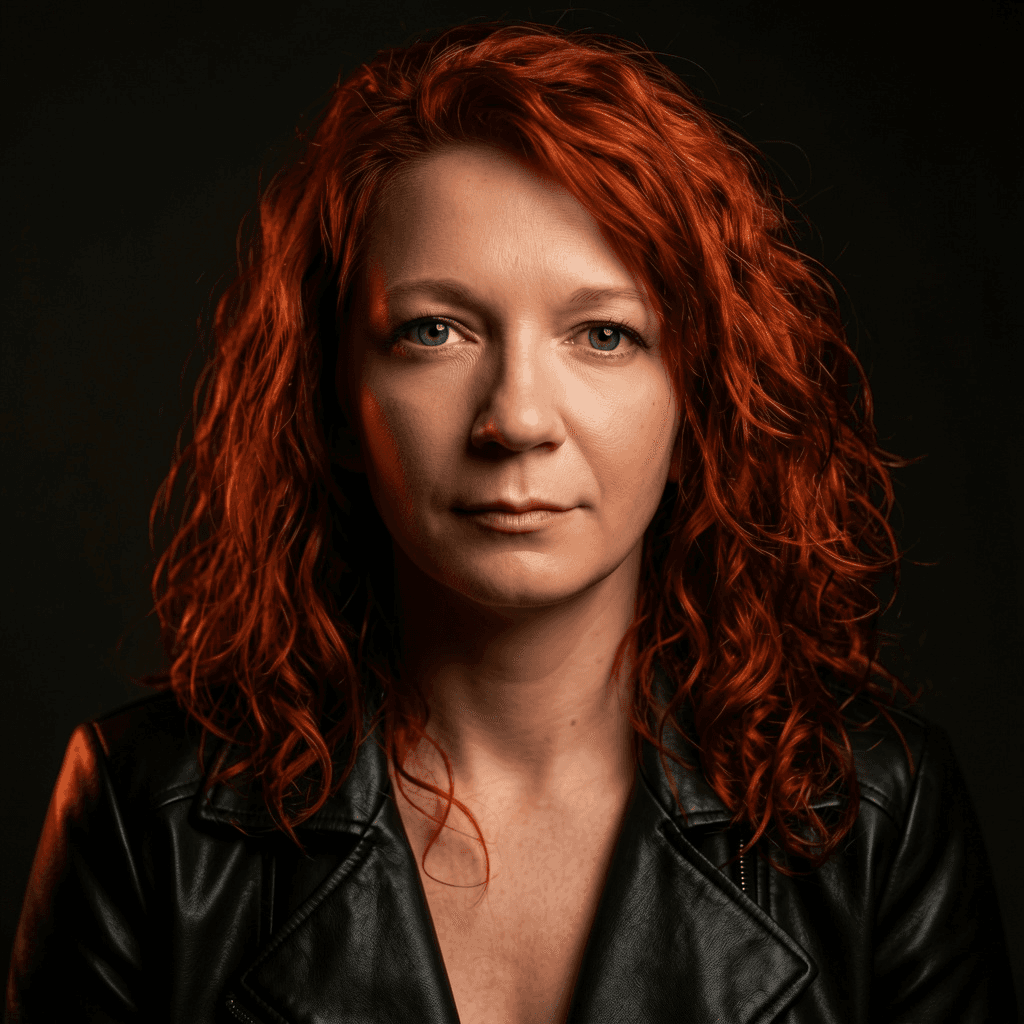
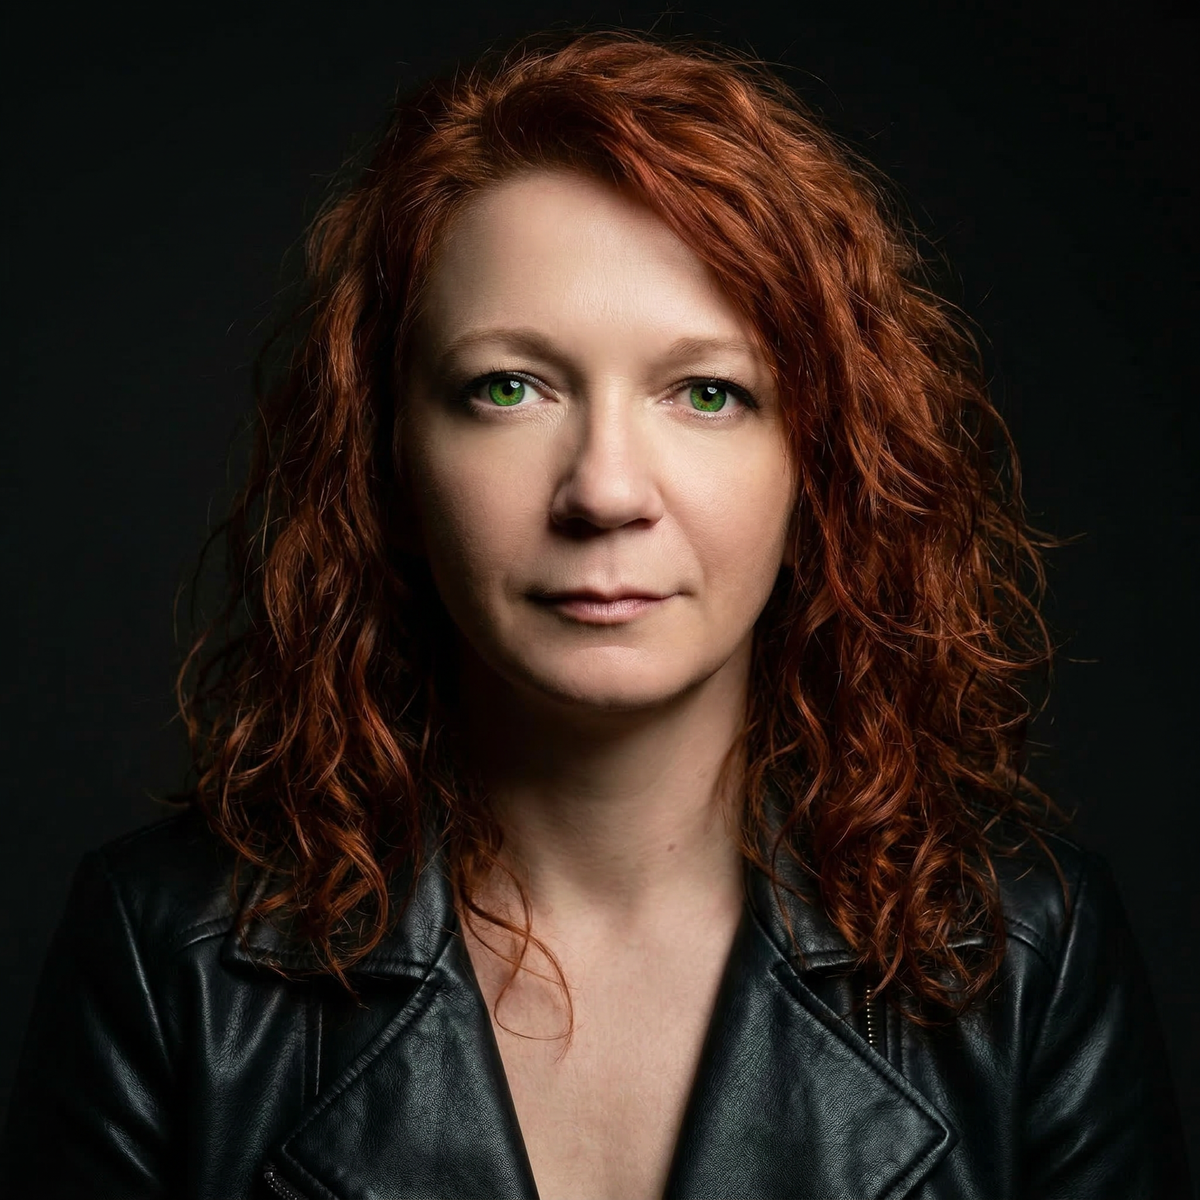
Replace profile portrait and remove red line decorations

diff --git a/public/styles.css b/public/styles.css
@@ -37,16 +37,12 @@ h1 span { color: var(--accent); }
 .button { width: fit-content; margin-top: 26px; padding: 14px 20px; border: 0; border-radius: 999px; display: inline-flex; gap: 26px; align-items: center; background: var(--ink); color: white; font: inherit; font-weight: 750; text-decoration: none; cursor: pointer; transition: transform .2s ease, background .2s ease; }
 .button:hover { transform: translateY(-2px); background: var(--accent); }
 .hero-image { grid-column: 1; grid-row: 1; margin: 0; position: relative; }
-.hero-image::before { content: ""; position: absolute; inset: -14px 14px 14px -14px; border: 1px solid var(--accent); border-radius: var(--radius); z-index: -1; }
-.hero-image::after { content: ""; position: absolute; width: 120px; height: 46px; right: -42px; bottom: 34px; border-bottom: 4px solid var(--accent); border-radius: 50%; transform: rotate(-12deg); pointer-events: none; }
 .hero-image img { width: 100%; aspect-ratio: 4 / 5; object-fit: cover; border-radius: var(--radius); box-shadow: var(--shadow); }
 .quote-band { padding: 28px 24px; background: var(--ink); color: white; overflow: hidden; }
 .quote-band p { width: max-content; max-width: 100%; margin: 0 auto; text-align: center; font-size: clamp(1.4rem, 3vw, 2.4rem); letter-spacing: -.03em; }
 .about, .work { padding-block: 130px; }
 .section-heading { display: grid; grid-template-columns: .35fr 1fr; gap: 30px; margin-bottom: 70px; }
 .section-heading h2, .contact h2 { font-size: clamp(3rem, 6vw, 6.4rem); font-weight: 500; }
-.section-heading h2 { position: relative; }
-.section-heading h2::after { content: ""; display: block; width: min(230px, 42%); height: 18px; margin-top: 22px; border-top: 3px solid var(--accent); border-radius: 50%; transform: rotate(-2deg); }
 .about-grid { display: grid; grid-template-columns: .85fr 1.15fr; gap: 70px; align-items: stretch; }
 .about-portrait { height: 100%; display: flex; }
 .about-portrait img { width: 100%; height: 100%; object-fit: cover; object-position: center top; border-radius: var(--radius); }
@@ -56,8 +52,8 @@ h1 span { color: var(--accent); }
 .about-copy h3 { font-size: 1.35rem; letter-spacing: -.03em; }
 .about-copy p { margin: 0; color: var(--muted); }
 .work { border-top: 1px solid var(--line); }
-.work-category { padding-top: 38px; border-top: 3px solid var(--ink); }
-.work-category + .work-category { margin-top: 110px; border-top-color: var(--accent); }
+.work-category { padding-top: 38px; border-top: 1px solid var(--line); }
+.work-category + .work-category { margin-top: 110px; }
 .category-heading { margin-bottom: 34px; display: grid; grid-template-columns: 60px minmax(260px, .8fr) 1fr; gap: 26px; align-items: end; }
 .category-heading > span { color: var(--accent); font-size: .82rem; font-weight: 900; letter-spacing: .12em; }
 .category-heading div p { margin: 0 0 7px; color: var(--muted); font-size: .72rem; font-weight: 800; letter-spacing: .12em; text-transform: uppercase; }
@@ -77,7 +73,6 @@ h1 span { color: var(--accent); }
 .project-card:hover p, .project-card:hover strong, .project-card:focus-visible p, .project-card:focus-visible strong { opacity: 1; }
 .project-wide { grid-column: span 2; min-height: 650px; }
 .contact { padding-block: 120px; background: #f1f1ef; color: var(--ink); position: relative; overflow: hidden; border-top: 1px solid var(--line); }
-.contact::before { content: ""; position: absolute; width: 420px; height: 180px; right: -90px; top: 42px; border: 2px solid rgba(143,31,31,.18); border-radius: 50%; transform: rotate(-18deg); }
 .contact-grid { display: grid; grid-template-columns: 1fr .8fr; gap: 80px; }
 .contact .eyebrow { color: var(--accent); }
 .contact-copy > p:not(.eyebrow) { max-width: 570px; color: var(--muted); font-size: 1.1rem; }
@@ -115,7 +110,6 @@ h1 span { color: var(--accent); }
   .hero { padding-block: 60px; }
   h1 { font-size: clamp(3rem, 14vw, 5.5rem); overflow-wrap: anywhere; }
   .hero-image { margin-top: 20px; }
-  .hero-image::after { right: -8px; }
   .about, .work { padding-block: 85px; }
   .section-heading { grid-template-columns: 1fr; gap: 6px; margin-bottom: 42px; }
   .about-grid { gap: 35px; }
